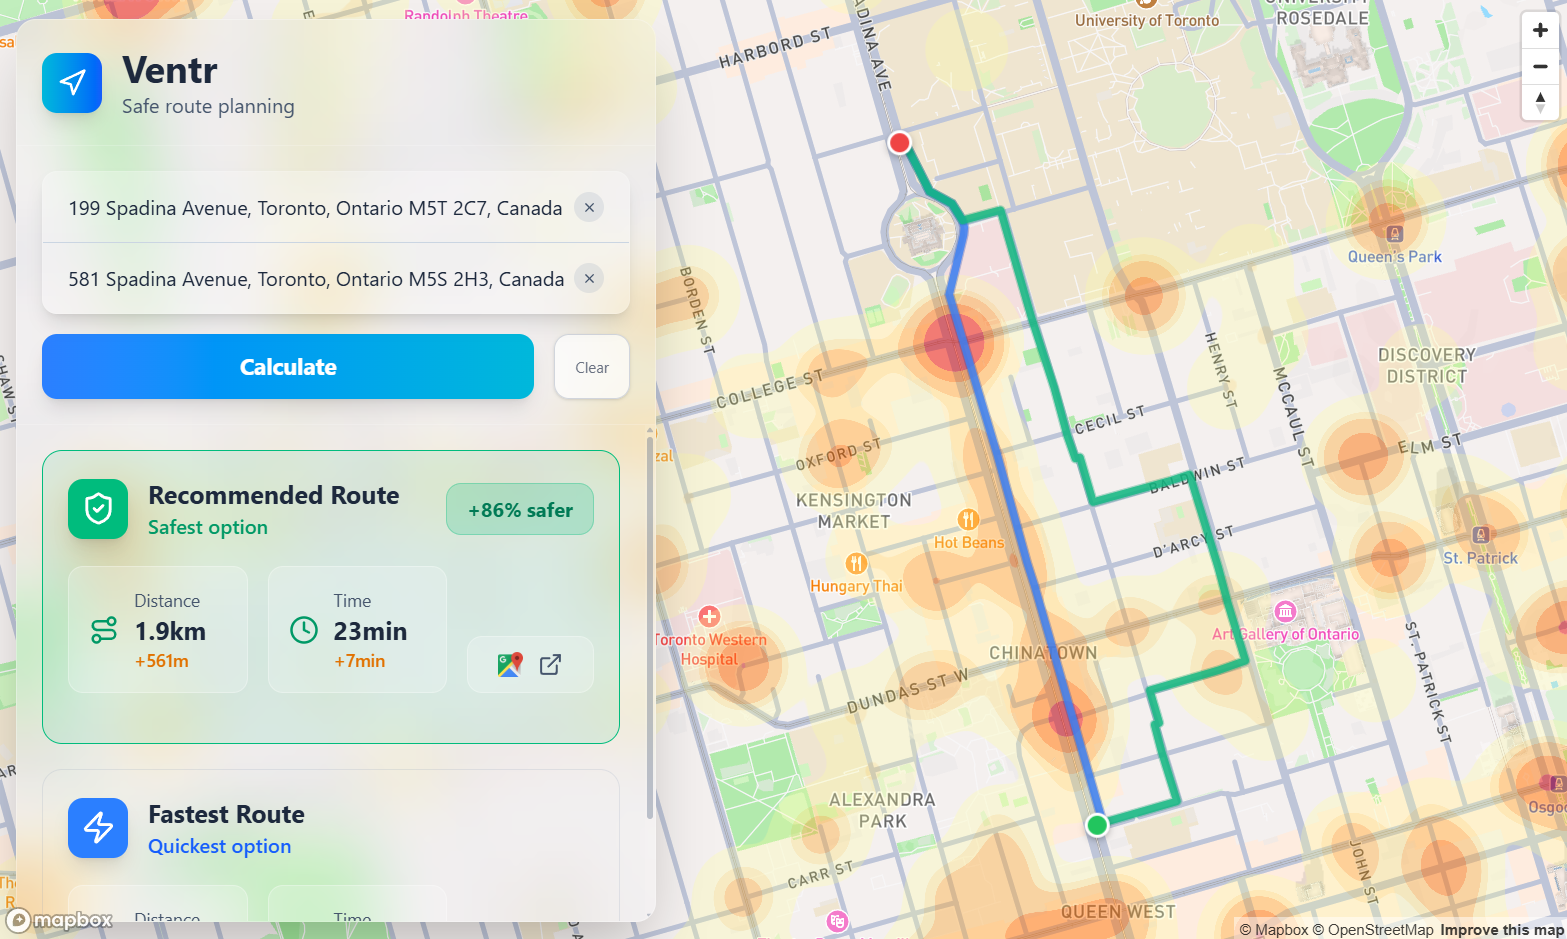
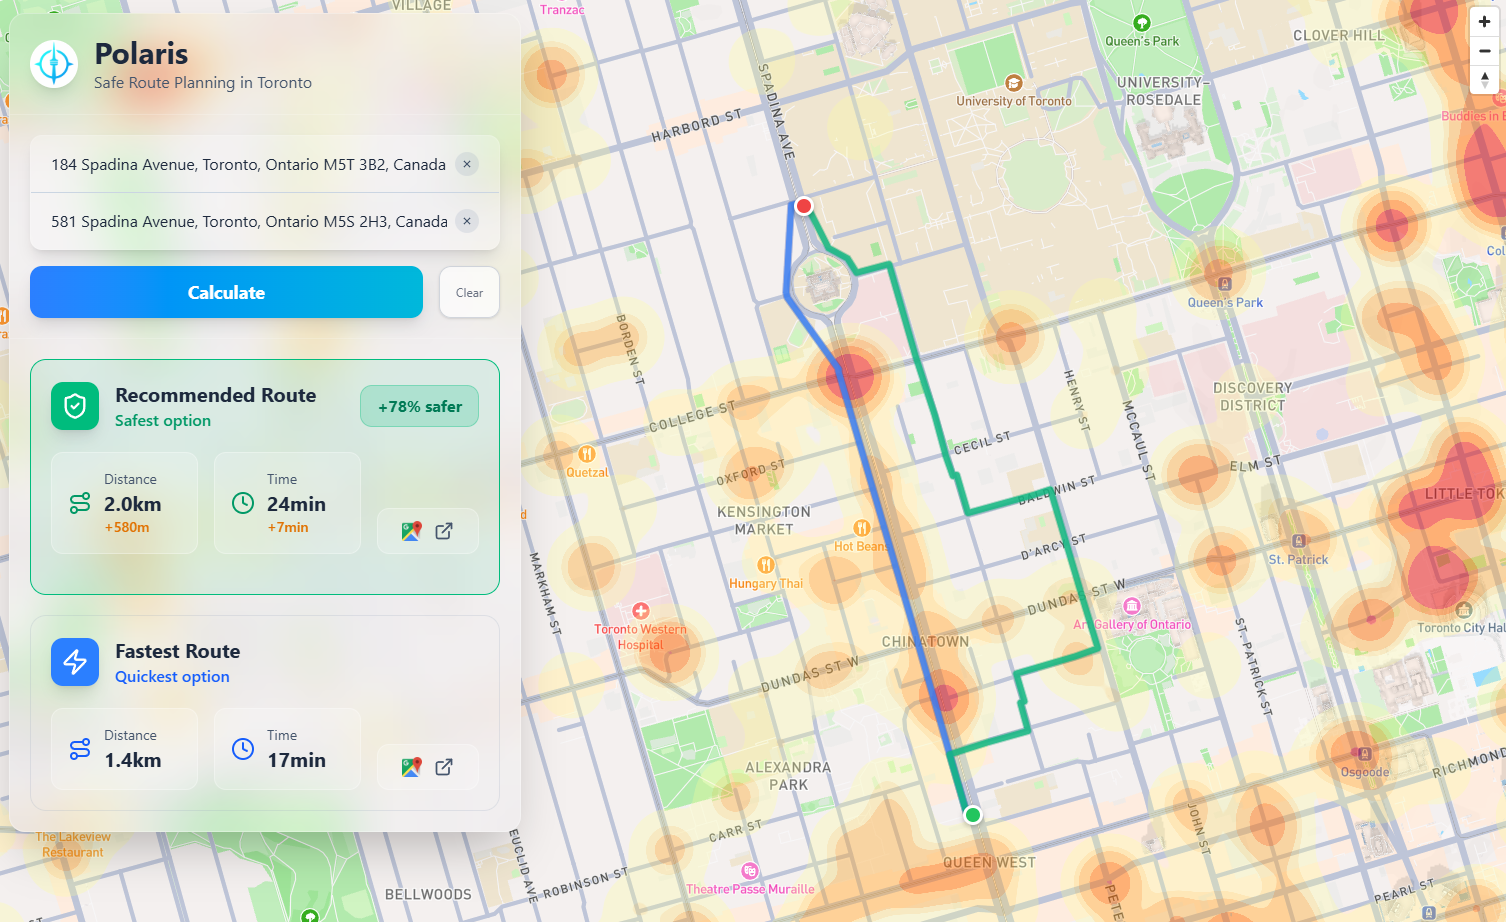
Polaris name change

diff --git a/src/app/data.tsx b/src/app/data.tsx
@@ -195,13 +195,13 @@ export const skillsData: SkillsData = {
 
 export const projectData: ProjectData[] = [
   {
-    title: "Ventr — Safer Walking Routes",
+    title: "Polaris — Safer Walking Routes",
     description:
       "Web app that shows safest and fastest routes in Toronto using a risk-weighted graph and caching to keep responses fast.",
     tags: ["Python", "FastAPI", "NetworkX", "React", "Next.js", "Mapbox", "AWS", "Nginx", "Cloudflare"],
     image: "/Images/Ventr.png",
     github: "#",
-    demo: "https://ventr.harman-singh.com",
+    demo: "https://polaris.harman-singh.com",
   },
   {
     title: "Gryphspace — Campus Free Room Locator",
